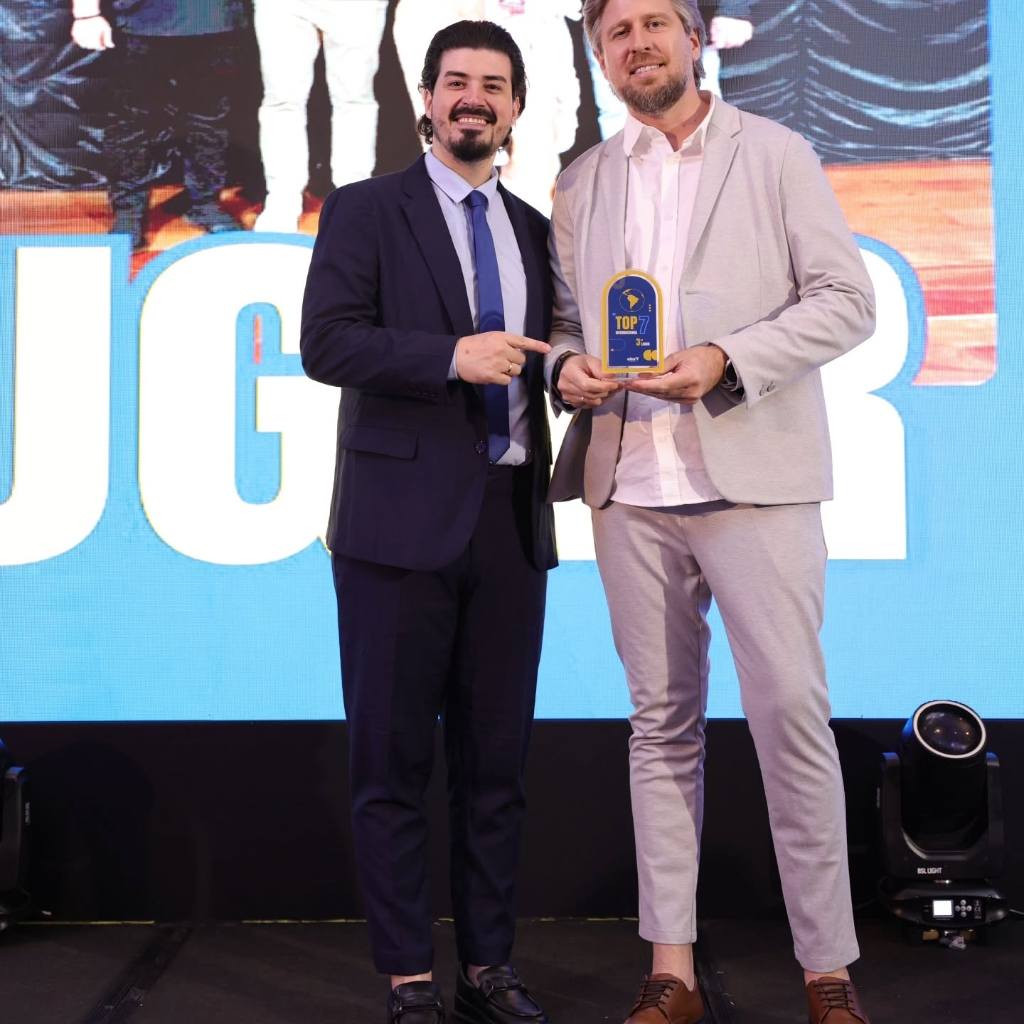
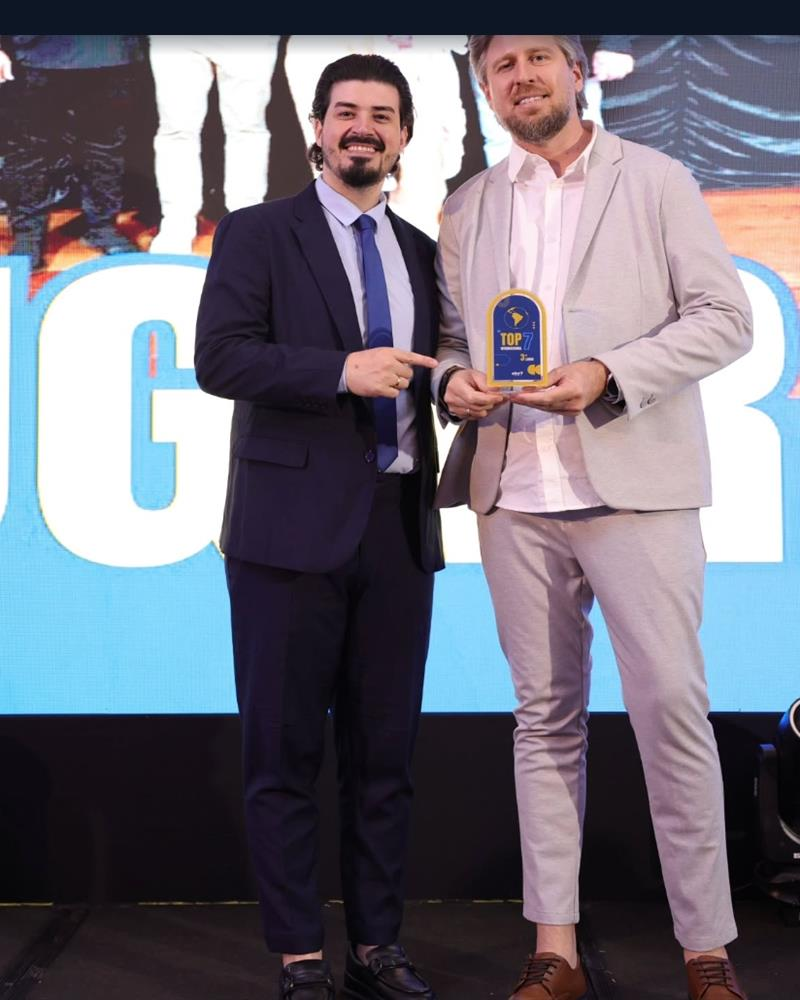
fix(awards): perfect 4:5 image framing, eliminate cut-offs and black letterboxing in modal and gallery cards

diff --git a/src/pages/HomePage.tsx b/src/pages/HomePage.tsx
@@ -473,19 +473,16 @@ export const HomePage: React.FC = () => {
                   onClick={() => setSelectedAwardPhoto(item)}
                   className="group cursor-pointer rounded-2xl bg-white/10 hover:bg-white/20 border border-white/20 p-3.5 transition-all duration-300 hover:shadow-xl hover:-translate-y-1 h-full flex flex-col justify-between"
                 >
-                  {/* Photo Container com aspect-[4/5] e object-cover object-top para enquadramento perfeito das pessoas e troféu */}
-                  <div className="relative aspect-[4/5] rounded-xl overflow-hidden bg-slate-900/20 flex items-center justify-center">
+                  {/* Photo Container com aspect-[4/5] perfeitamente alinhado */}
+                  <div className="relative aspect-[4/5] rounded-xl overflow-hidden bg-white/5 flex items-center justify-center">
                     <img
                       src={item.image}
                       alt={item.title}
-                      onError={(e) => {
-                        (e.currentTarget as HTMLImageElement).src = './images/instagram-2.jpg';
-                      }}
-                      className="w-full h-full object-cover object-top group-hover:scale-105 transition-transform duration-500"
+                      className="w-full h-full object-cover group-hover:scale-105 transition-transform duration-500"
                     />
-                    <div className="absolute inset-0 bg-gradient-to-t from-slate-950/60 via-transparent to-transparent opacity-40 group-hover:opacity-20 transition-opacity" />
+                    <div className="absolute inset-0 bg-gradient-to-t from-slate-950/60 via-transparent to-transparent opacity-30 group-hover:opacity-10 transition-opacity" />
 
-                    <span className="absolute bottom-3 right-3 p-2 rounded-full bg-white/25 hover:bg-white/40 text-white backdrop-blur-md transition-colors">
+                    <span className="absolute bottom-3 right-3 p-2 rounded-full bg-black/40 hover:bg-black/60 text-white backdrop-blur-md transition-colors">
                       <ExternalLink className="w-4 h-4" />
                     </span>
                   </div>
@@ -495,7 +492,7 @@ export const HomePage: React.FC = () => {
                     <h3 className="text-base font-extrabold text-white">
                       {item.title}
                     </h3>
-                    <p className="text-xs text-white/85 mt-0.5 font-medium">
+                    <p className="text-xs text-white/90 mt-0.5 font-medium">
                       {item.subtitle}
                     </p>
                   </div>
@@ -528,7 +525,7 @@ export const HomePage: React.FC = () => {
               animate={{ opacity: 1 }}
               exit={{ opacity: 0 }}
               onClick={() => setSelectedAwardPhoto(null)}
-              className="fixed inset-0 z-[75] bg-slate-950/85 backdrop-blur-md flex items-center justify-center p-4"
+              className="fixed inset-0 z-[75] bg-slate-950/85 backdrop-blur-md flex items-center justify-center p-4 sm:p-6"
             >
               <motion.div
                 initial={{ scale: 0.95, opacity: 0 }}
@@ -536,20 +533,21 @@ export const HomePage: React.FC = () => {
                 exit={{ scale: 0.95, opacity: 0 }}
                 transition={{ duration: 0.2 }}
                 onClick={(e) => e.stopPropagation()}
-                className="bg-white rounded-3xl max-w-2xl w-full overflow-hidden shadow-2xl relative"
+                className="bg-white rounded-3xl max-w-lg w-full overflow-hidden shadow-2xl relative flex flex-col"
               >
                 <button
                   onClick={() => setSelectedAwardPhoto(null)}
-                  className="absolute top-4 right-4 z-20 p-2.5 rounded-full bg-slate-900/60 hover:bg-slate-900/90 text-white transition-colors"
+                  className="absolute top-3 right-3 z-30 p-2.5 rounded-full bg-slate-900/60 hover:bg-slate-900/90 text-white transition-colors"
+                  aria-label="Fechar"
                 >
                   <X className="w-5 h-5" />
                 </button>
 
-                <div className="relative aspect-[4/5] max-h-[70vh] bg-slate-900 flex items-center justify-center">
+                <div className="relative aspect-[4/5] w-full bg-slate-100 overflow-hidden flex items-center justify-center">
                   <img
                     src={selectedAwardPhoto.image}
                     alt={selectedAwardPhoto.title}
-                    className="w-full h-full object-contain"
+                    className="w-full h-full object-cover"
                   />
                 </div>
 
